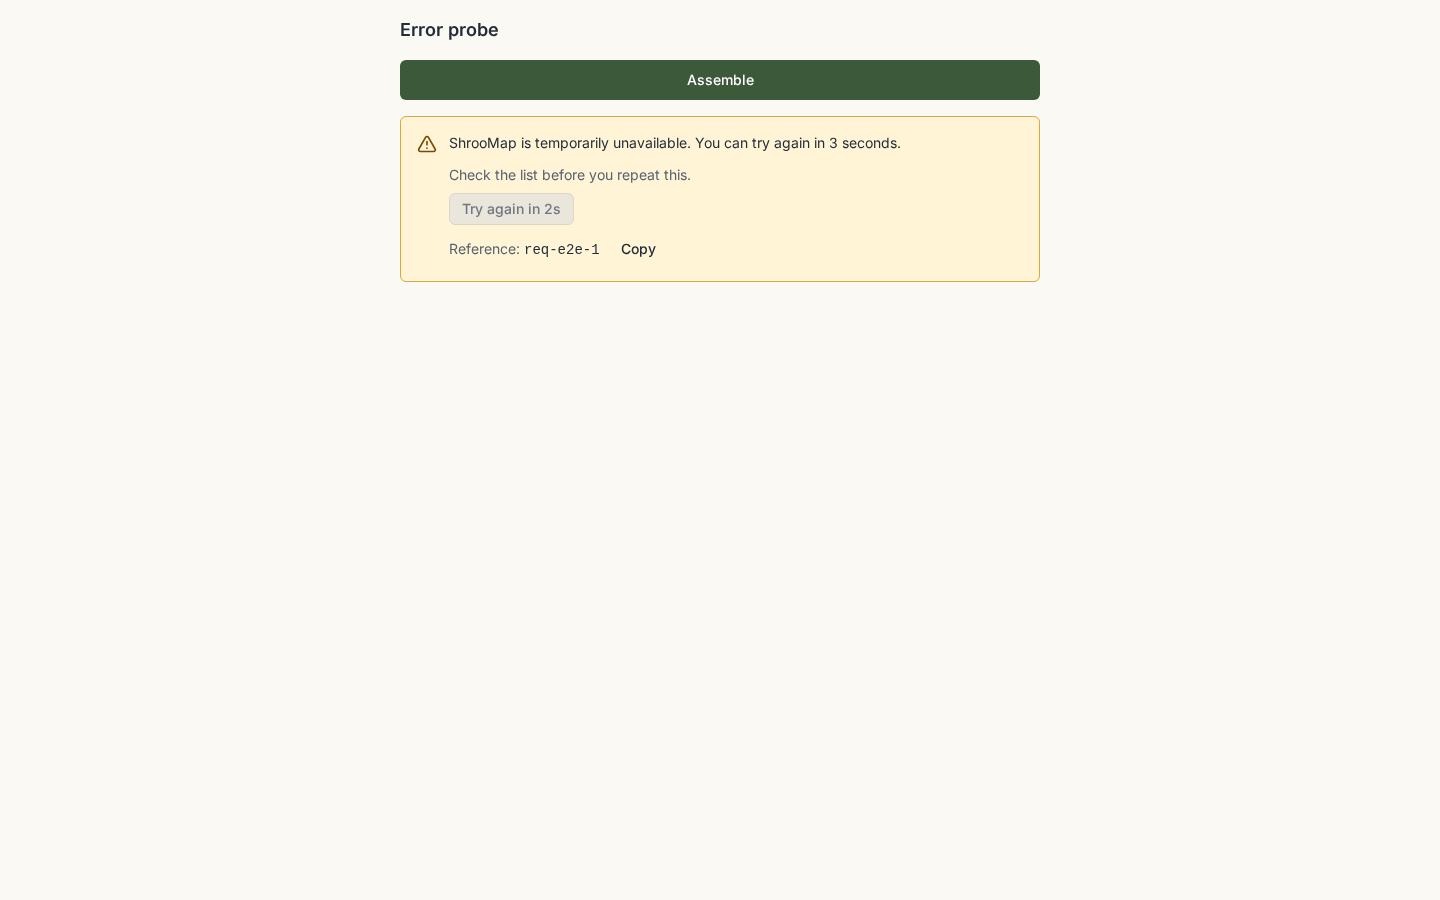
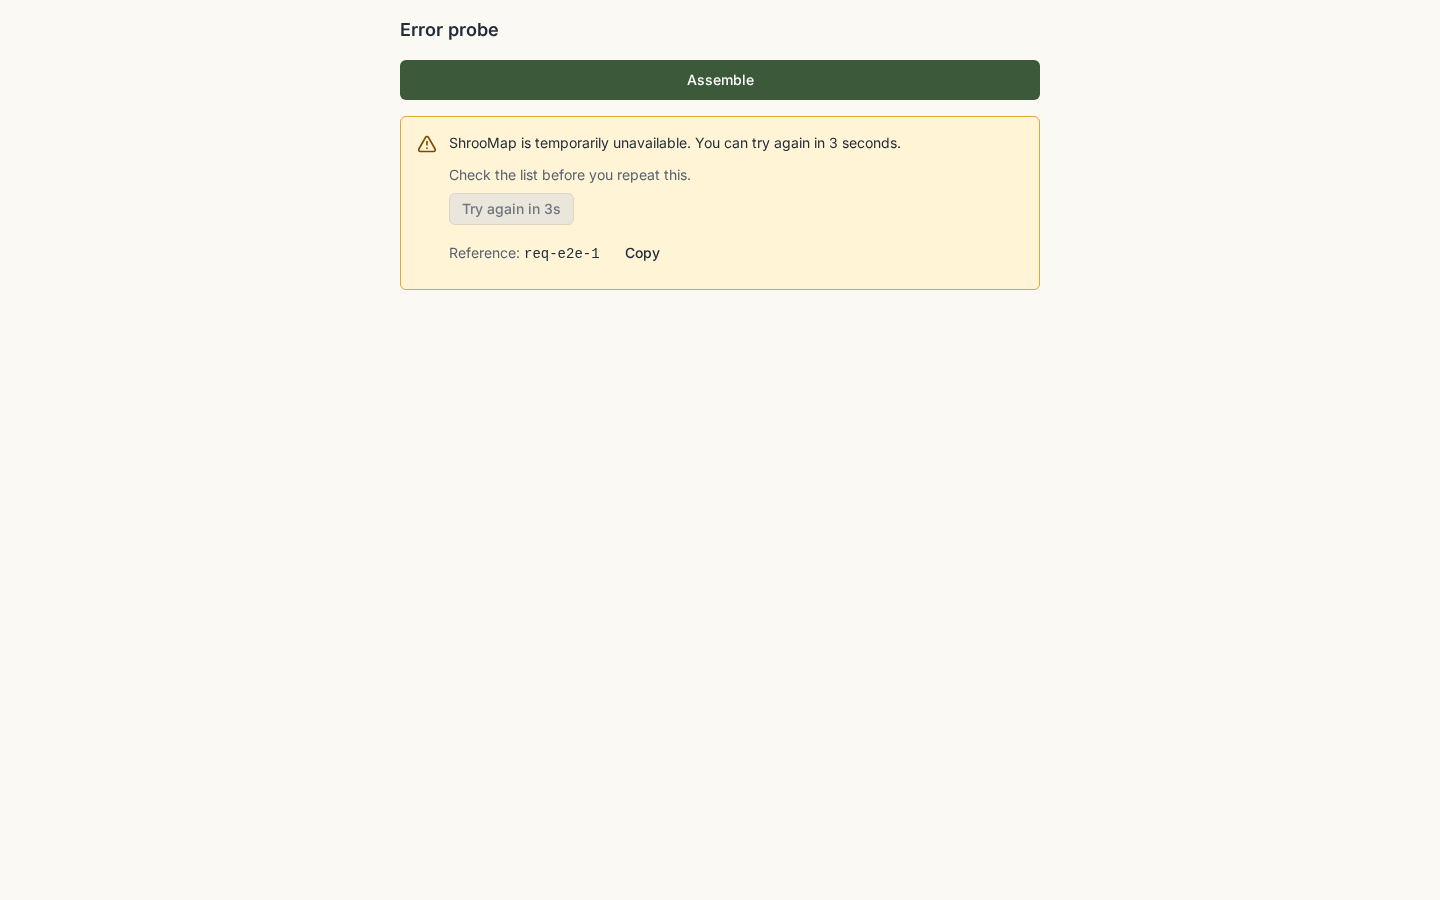
TASK-083: real-api test follows dev auth guard (401 redirect), forbidden_role Close in context, Copy target size

Changed region(s): [[0.2812, 0.2489, 0.7188, 0.3422]]

diff --git a/apps/web/e2e/error-presentation.spec.ts b/apps/web/e2e/error-presentation.spec.ts
@@ -16,6 +16,7 @@ const VIEWPORTS = [
 async function relay(
   page: Page,
   assembly?: (fulfill: Fulfill, count: number, key: string | null) => Promise<void>,
+  scripted = '/assemblies',
 ) {
   const api = process.env.E2E_API_URL!;
   let count = 0;
@@ -36,7 +37,7 @@ async function relay(
         },
       });
     }
-    if (assembly && request.url().includes('/assemblies')) {
+    if (assembly && request.url().includes(scripted)) {
       count += 1;
       return assembly(
         (o) => route.fulfill({ ...o, headers: { ...(o?.headers ?? {}), ...cors } }),
@@ -57,21 +58,46 @@ const envelope = (code: string, message: string, extra: object = {}) =>
   });
 
 test.describe('@TASK-083 error presentation through the built web app', () => {
+  // The real api answers GET /me without a session with 401 unauthenticated: the session-expired row redirects to
+  // sign-in with a safe return path. The sign-in screen does not exist yet, so its target is stubbed.
+  test('real api unauthenticated on a page load redirects to sign-in with a safe return path', async ({
+    page,
+  }, info) => {
+    test.skip(info.project.name !== 'chromium');
+    await relay(page);
+    await page.route('**/sign-in**', (route) =>
+      route.fulfill({ status: 200, contentType: 'text/html', body: '<main>Sign in stub</main>' }),
+    );
+    await page.goto('/error-probe?scenario=load');
+    await expect(page).toHaveURL(
+      /\/sign-in\?reason=session-expired&return=%2Ferror-probe%3Fscenario%3Dload$/,
+    );
+    await expect(page.getByText('Sign in stub')).toBeVisible();
+  });
+
   for (const viewport of VIEWPORTS) {
-    test(`real api not_found renders the unavailable state with Go Home at ${viewport.name}`, async ({
+    test(`not_found on a page load renders the unavailable state with Go Home at ${viewport.name}`, async ({
       page,
     }, info) => {
       test.skip(info.project.name !== 'chromium');
       await page.setViewportSize({ width: viewport.width, height: viewport.height });
-      await relay(page);
+      await relay(
+        page,
+        async (fulfill) =>
+          fulfill({
+            status: 404,
+            contentType: 'application/json',
+            body: envelope('not_found', 'no such row in table users'),
+          }),
+        '/api/v1/me',
+      );
       await page.goto('/error-probe?scenario=load');
       const alert = page
         .getByRole('alert')
         .filter({ hasText: 'This page or item is not available.' });
       await expect(alert).toBeVisible();
       await expect(alert.getByRole('link', { name: 'Go Home' })).toHaveAttribute('href', '/');
-      // Status, stack and the raw server message never reach the screen.
-      await expect(page.locator('main')).not.toContainText(/\b404\b|stack|not_found/i);
+      await expect(page.locator('main')).not.toContainText(/\b404\b|stack|not_found|table/i);
       await page.evaluate(() => document.fonts.ready);
       await expectNoAxeViolations(page, `${evidence}/axe/not-found-${viewport.name}.json`);
       mkdirSync(`${evidence}/screenshots`, { recursive: true });

diff --git a/apps/web/src/lib/errors/copy.ts b/apps/web/src/lib/errors/copy.ts
@@ -52,6 +52,8 @@ export interface ErrorRow {
   presentation: Presentation;
   /** Presentation when the failing call is an action inside a form or dialog and the row differs from `presentation`. */
   inContext?: Presentation;
+  /** Action when the failing call is an action inside a form, dialog or page and the row differs from `action`. */
+  inContextAction?: ErrorAction;
   tone: Tone;
   /** The 500/503 "Reference" line with the request ID and a Copy button. */
   reference?: boolean;
@@ -161,6 +163,7 @@ const rows: ErrorRow[] = [
     pageMessage: 'This page is not available.',
     message: () => 'You do not have permission to do this.',
     action: { kind: 'link', label: 'Go Home', href: ROUTES.home },
+    inContextAction: { kind: 'close', label: 'Close' },
     presentation: 'page',
     inContext: 'alert',
     tone: 'warning',

diff --git a/apps/web/src/lib/errors/copy.test.ts b/apps/web/src/lib/errors/copy.test.ts
@@ -267,6 +267,8 @@ describe('error copy table (UI-UX §9.1)', () => {
     const forbidden = resolveError(fail('forbidden_role'), { surface: 'context' });
     expect(forbidden.presentation).toBe('alert');
     expect(forbidden.message).toBe('You do not have permission to do this.');
+    expect(forbidden.action).toEqual({ kind: 'close', label: 'Close' });
+    expect(resolveError(fail('forbidden_role')).action.label).toBe('Go Home');
   });
 
   it('shows the Reference only for 500 and 503 (and the fallback)', () => {

diff --git a/apps/web/src/components/errors/ReferenceLine.tsx b/apps/web/src/components/errors/ReferenceLine.tsx
@@ -25,7 +25,7 @@ export function ReferenceLine({ requestId }: ReferenceLineProps) {
       <span>
         Reference: <code className="font-mono text-foreground">{requestId}</code>
       </span>
-      <Button variant="ghost" size="sm" onClick={copy} aria-label="Copy reference">
+      <Button variant="ghost" onClick={copy} aria-label="Copy reference">
         {copied ? 'Copied' : 'Copy'}
       </Button>
       <span role="status" className="sr-only">

diff --git a/apps/web/src/lib/errors/resolve.ts b/apps/web/src/lib/errors/resolve.ts
@@ -111,7 +111,7 @@ export function resolveError(error: unknown, options: ResolveOptions = {}): Erro
     tone: row.tone,
     title: row.title ?? null,
     message: text,
-    action: row.action,
+    action: surface === 'context' && row.inContextAction ? row.inContextAction : row.action,
     reference: row.reference ? (api?.requestId ?? null) : null,
     retry: row.retry === true,
     waitSeconds,

diff --git a/docs/evidence/TASK-083/README.md b/docs/evidence/TASK-083/README.md
@@ -12,7 +12,7 @@ Submit-check report for the submitted commit is attached to the task as `submit-
 | Table test, 36 codes + unknown fallback | `lib/errors/copy.test.ts` (each code: copy, action, presentation; unknown/plain/transport fall back) |
 | No status, stack, table name or provider detail in any message | `copy.test.ts` "copy lint" over every row, with and without server text and wait; server messages screened by `safeServerMessage` |
 | Countdown, announcements only at start and availability | `components/errors/RetryButton.test.tsx` (fake timers: exactly two distinct announcements) |
-| Through the real entry point | `e2e/error-presentation.spec.ts` (`@TASK-083`): built web (`next start`) against the running built api; real api `not_found` on GET /me; scripted contract-shaped 503/500/401/422 for the write endpoint |
+| Through the real entry point | `e2e/error-presentation.spec.ts` (`@TASK-083`): built web (`next start`) against the running built api; the real api's `401 unauthenticated` on GET /me (current `dev`, TASK-034 guard) redirects to `/sign-in?reason=session-expired&return=...` (the sign-in target is stubbed: that screen does not exist yet); scripted contract-shaped 404 `not_found` (GET /me) and 503/500/401/422 (write endpoint) |
 | Retry presentation | 503 + `Retry-After: 3`: disabled "Try again in Ns", "Check the list before you repeat this" (job-creating), Reference + Copy, retry sends the same `Idempotency-Key`; 500: three failures show the administrator hint |
 | Session expired | 401 redirects to `/sign-in?reason=session-expired&return=<safe path>`; unsafe returns collapse to `/` (`session.test.ts`) |
 
@@ -24,5 +24,5 @@ Screenshots (390 and 1440, real fonts) and axe results (WCAG 2.2 AA, zero violat
 
 ## Limitations
 - The `/sign-in`, `/access`, `/mfa` and campaign screens do not exist yet; their paths are the proposed routes of UI-UX §7 in `lib/errors/routes.ts`. The global wiring of 401 handling into the query client belongs with the screen tickets; this ticket supplies `ErrorNotice`, `redirectTarget` and `signInUrl`.
-- The write-endpoint answers in the e2e are scripted from the contract, not produced by the api; only the `not_found` case is a real api answer.
+- The write-endpoint answers in the e2e are scripted from the contract, not produced by the api; only the session-expired redirect on GET /me is a real api answer. `forbidden_role` in context offers Close (INT/F-1); Copy uses the 44 px phone target (UXV-3).
 - `reports/deps.json` is a copy of the dependency audit (`reports/audit.json`) so the ticket's flag resolves.
